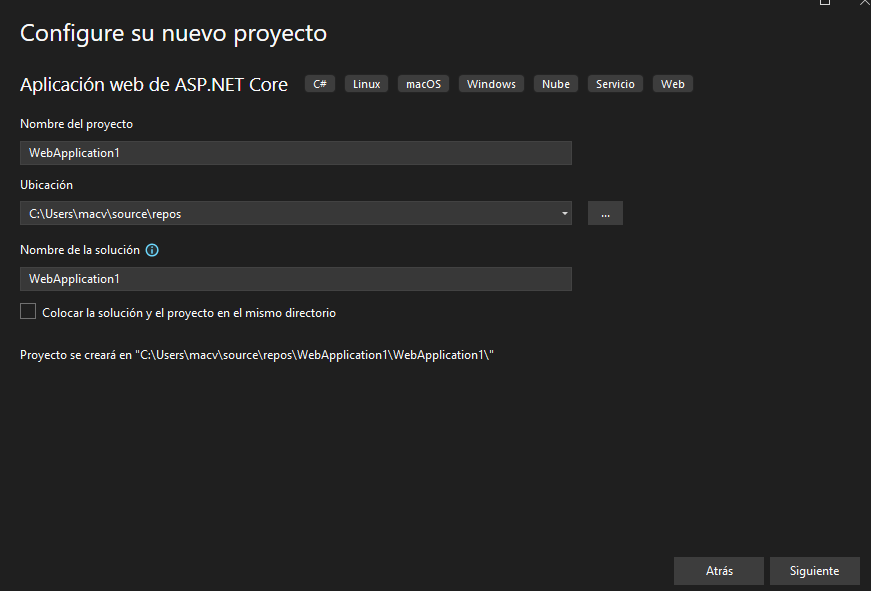
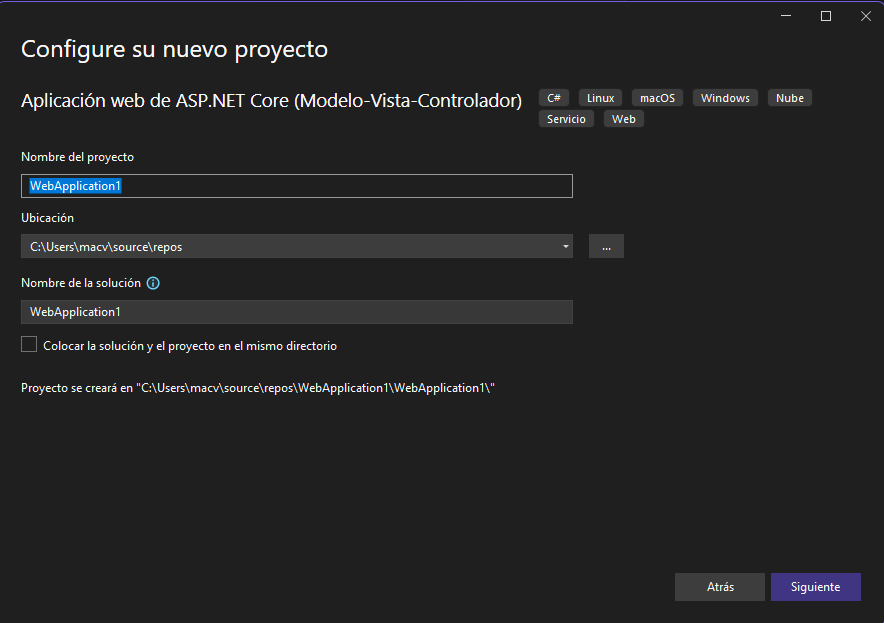
Actualización

diff --git a/crud_asistente/index.md b/crud_asistente/index.md
@@ -3,22 +3,22 @@
 1. Haga clic derecho en **Controllers**
 2. Seleccione la opción **Agregar**
 3. Seleccione la opción **Controlador...**
-4. Seleccione **Controlador de MVC con vistas que usan Entity Framework.**
-![image](./img/controller_con_vistas_entity_framework.png)  
-5. Agregar  
+4. Seleccione **Controlador de MVC con vistas que usan Entity Framework.**  
 
-Se mostrará el siguiente cuadro de diálogo.  
+![image](./img/controller_con_vistas_entity_framework.png)   
 
-![image](./img/dialogo_controlador.png)  
 
-Llene como se muestra:  
+5. Haga clic en **Agregar** y luego, seleccione las opciones como se muestra en la imagen siguiente.  
 
-![image](./img/dialogo_controlador_lleno.png)  
 
-6. Agregar  
+![image](./img/dialogo_controlador.png)   
+
+6. Haga clic en **Agregar**  
 
 **Controlador creado:**  
+
 ![image](./img/controlador_productos.png)  
 
 **Vistas creadas**  
+
 ![image](./img/vistas_productos_creadas.png)  

diff --git a/nuevo_proyecto/index.md b/nuevo_proyecto/index.md
@@ -4,9 +4,9 @@
 
 ![image](./img/crear_un_proyecto.png)  
 
-2. Busque y seleccione la plantilla **Aplicación web aspnet Core**.  
+2. Busque y seleccione la plantilla **Aplicación web ASP.NET Core (Modelo-Vista-Controlador)**.  
 
-![image](./img/aplicacion_web_aspnet_core.png)  
+![image](./img/tipo_aplicacion.png)  
 
 3. Haga clic en **Siguiente**  
 
